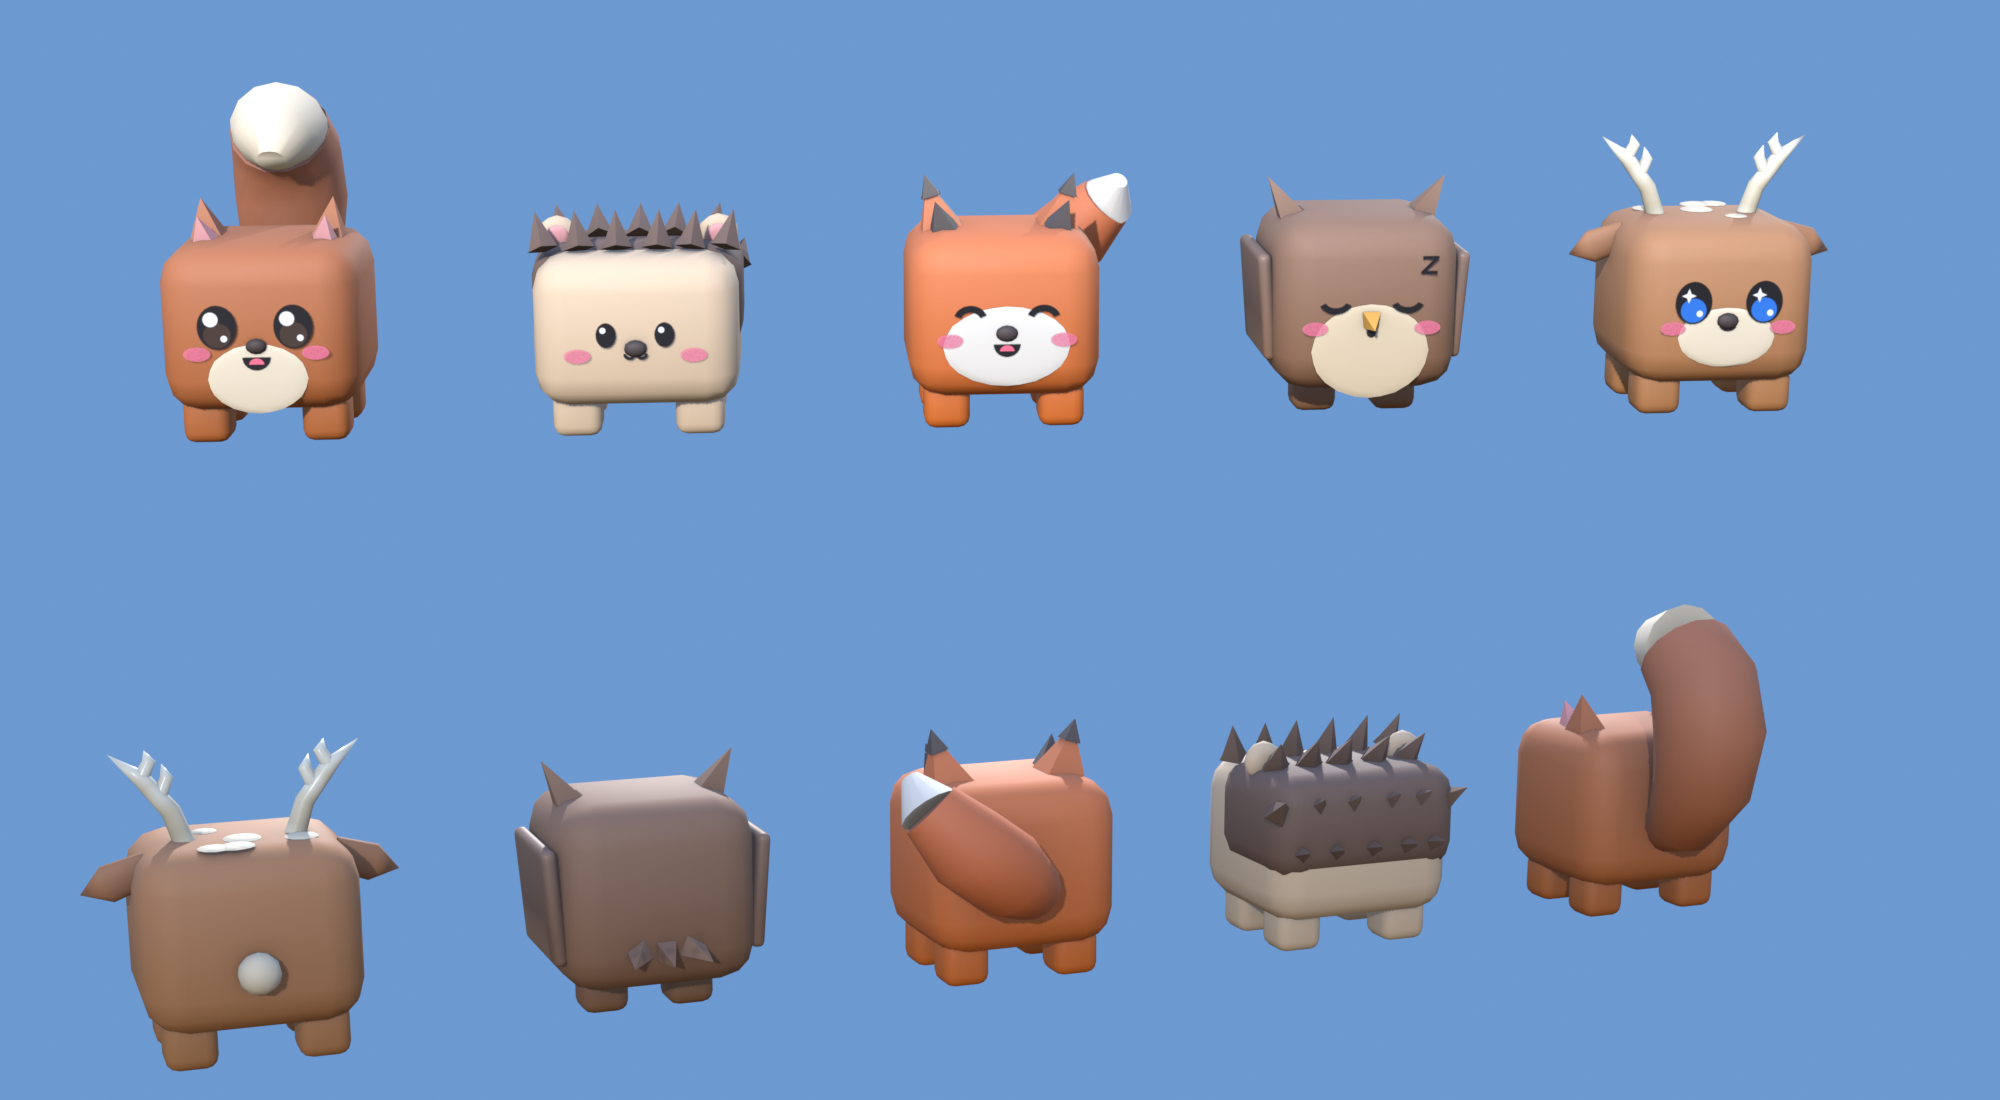
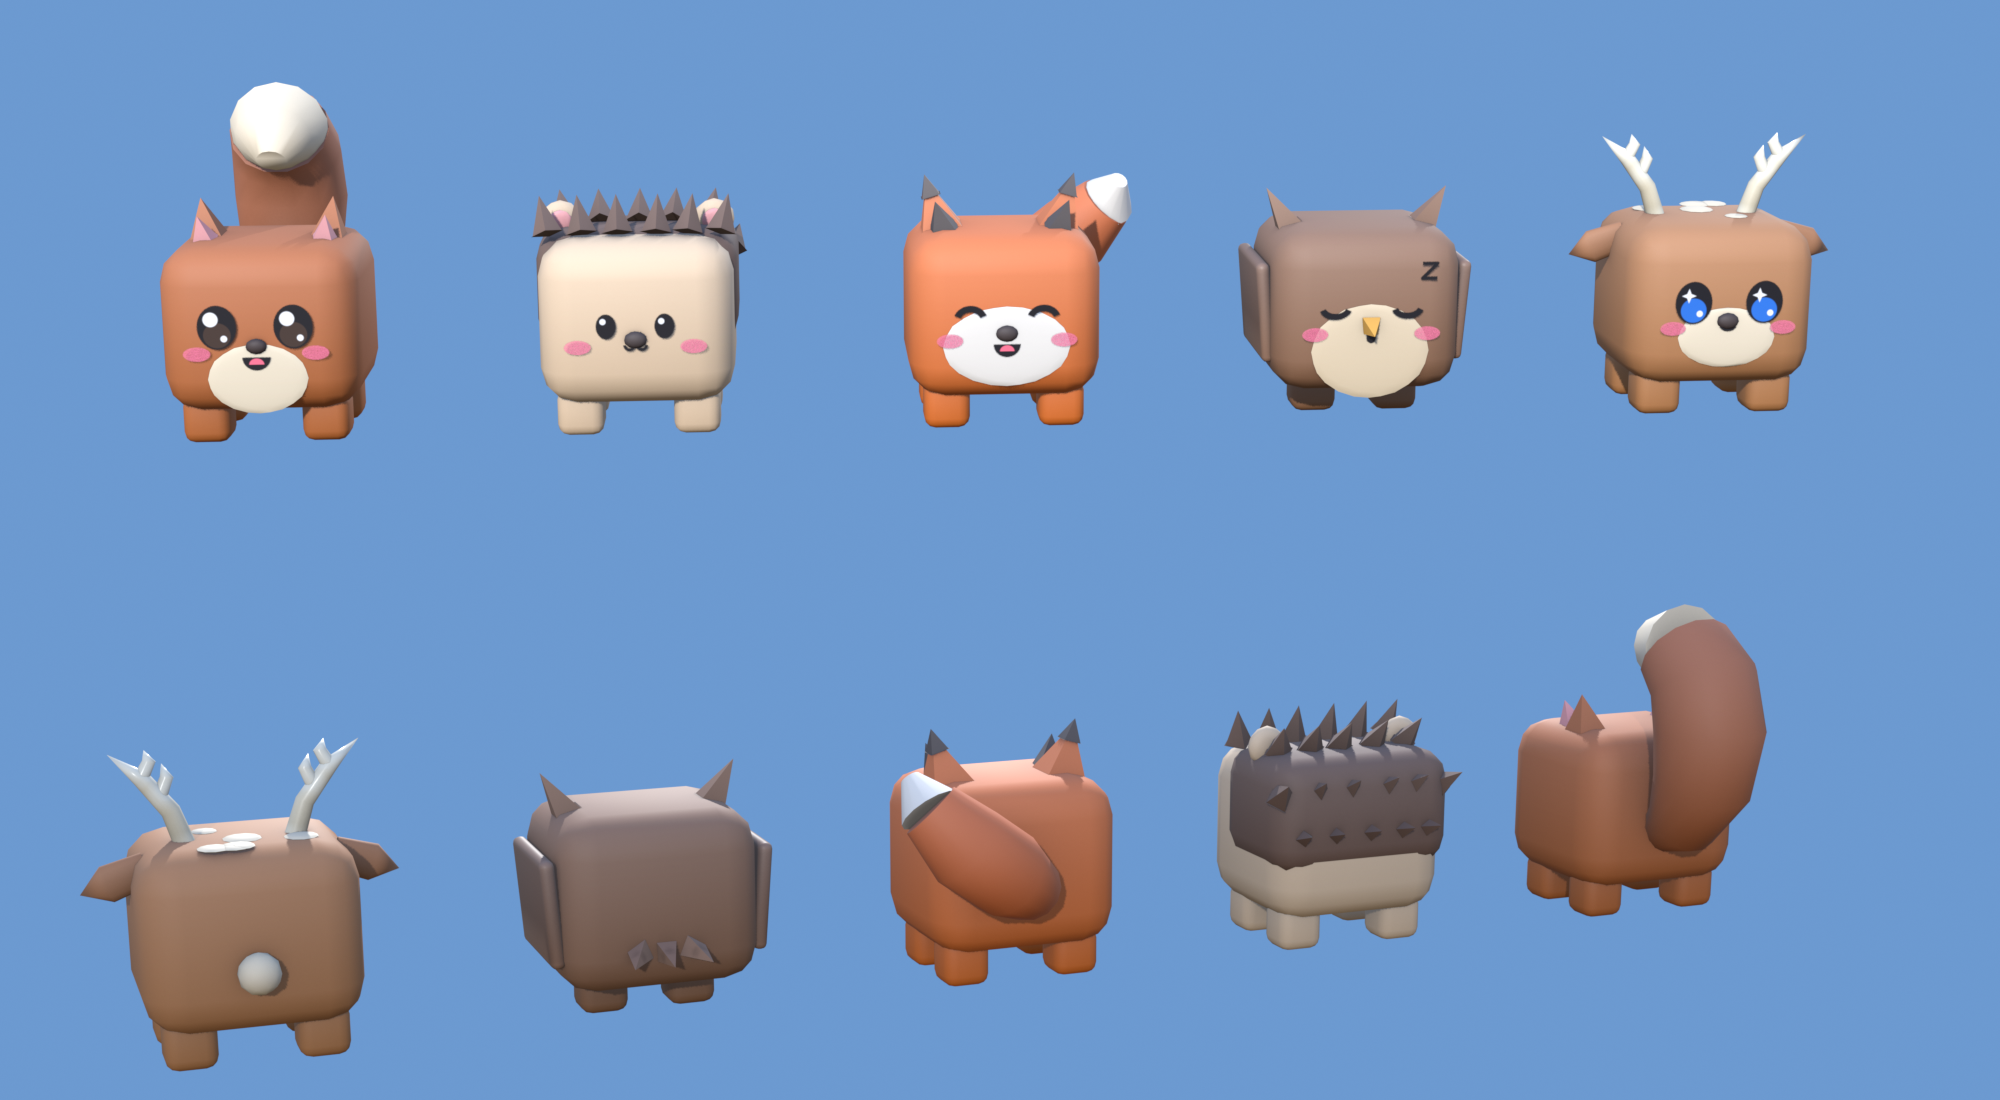
Lift a Sword: pets keep one body size

diff --git a/Lift a Sword/Lift a Sword Decisions.md b/Lift a Sword/Lift a Sword Decisions.md
@@ -13,6 +13,7 @@ Things I need from you, newest first. Back to [[Lift a Sword]].
 - **Textures for new models:** your call per category (see [[3D Modelling Preferences]]). The portal and chest are flat colour.
 
 ## Done
+- 2026-10-14: **Pets stay the same size:** one body size for all 84, and the add-ons make the animal (the hedgehog and owl were brought back to the standard size).
 - 2026-10-14: **Zone signs:** the hanging wooden signs are approved, and all 16 are placed. **Eggs:** 16, matching the roster.
 - 2026-10-14: **16 zones** in World 1; zone 16 is **Void / Shadow** (added in Studio, placeholder models). Pet roster approved (84 pets, see [[Pets]]); Treant Deer → Deer. Red pet eyes rejected; faces vary per pet.
 - 2026-10-14: **Stylised+** for everything (all 15 swords exported). Signs: universal, simple, smaller (the first universal try was too big and busy).

diff --git a/Lift a Sword/Design/Pets.md b/Lift a Sword/Design/Pets.md
@@ -7,6 +7,8 @@ tags: [lift-a-sword, design, pets]
 
 **Style:** a chunky rounded cube with stubby legs. Only the parts that make each animal are added: ears, horns, wings, tails, halos. The face is one decal texture, not parts. See ![[LS Pet Face Mix.png]]
 
+**Size:** every pet has the same body size (you asked for this on 2026-10-14). Animals differ only by their add-ons, and Studio scales all pets by one shared factor.
+
 **Faces:** they aren't all the same. There are 12 face decals, and each pet uses one. Dark pets get a version with a white rim.
 
 | Face | Look |
